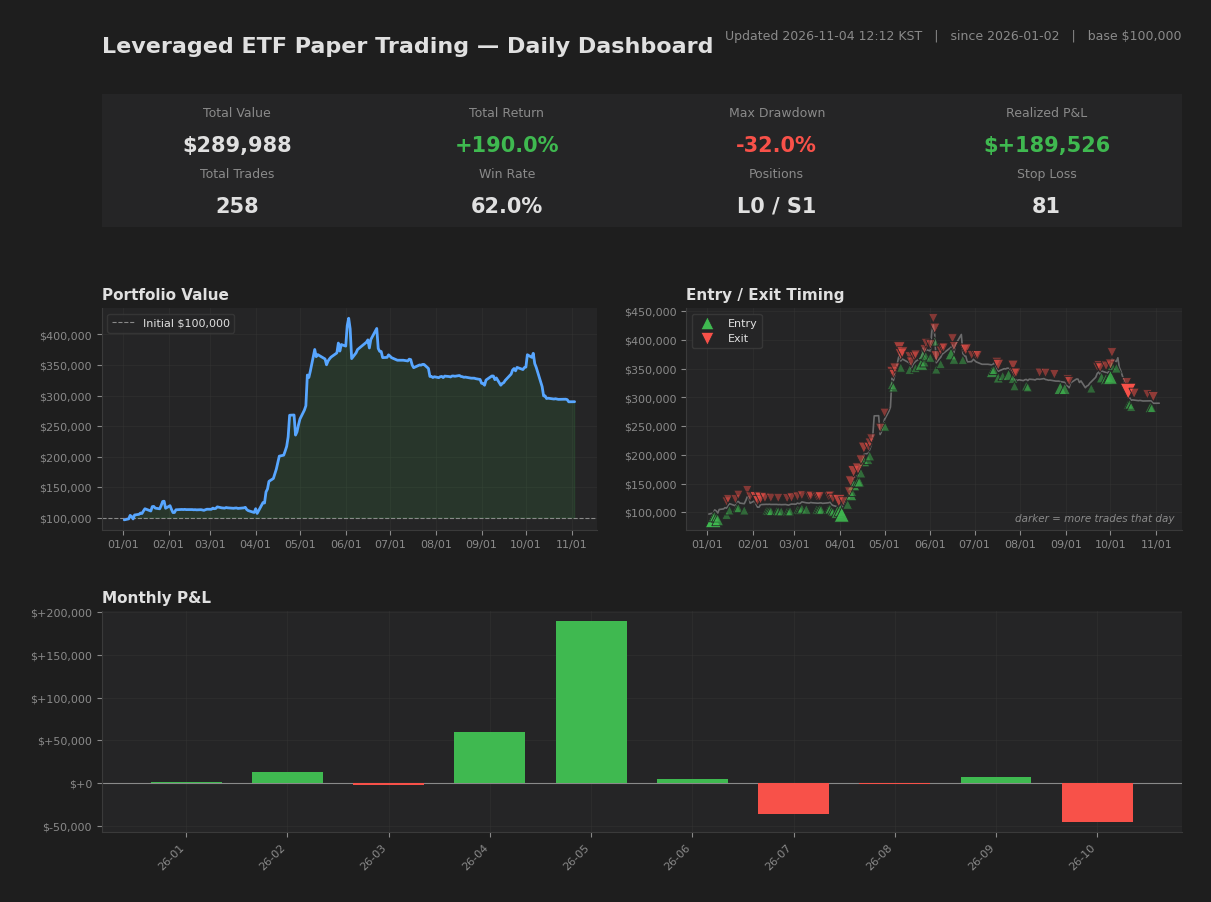
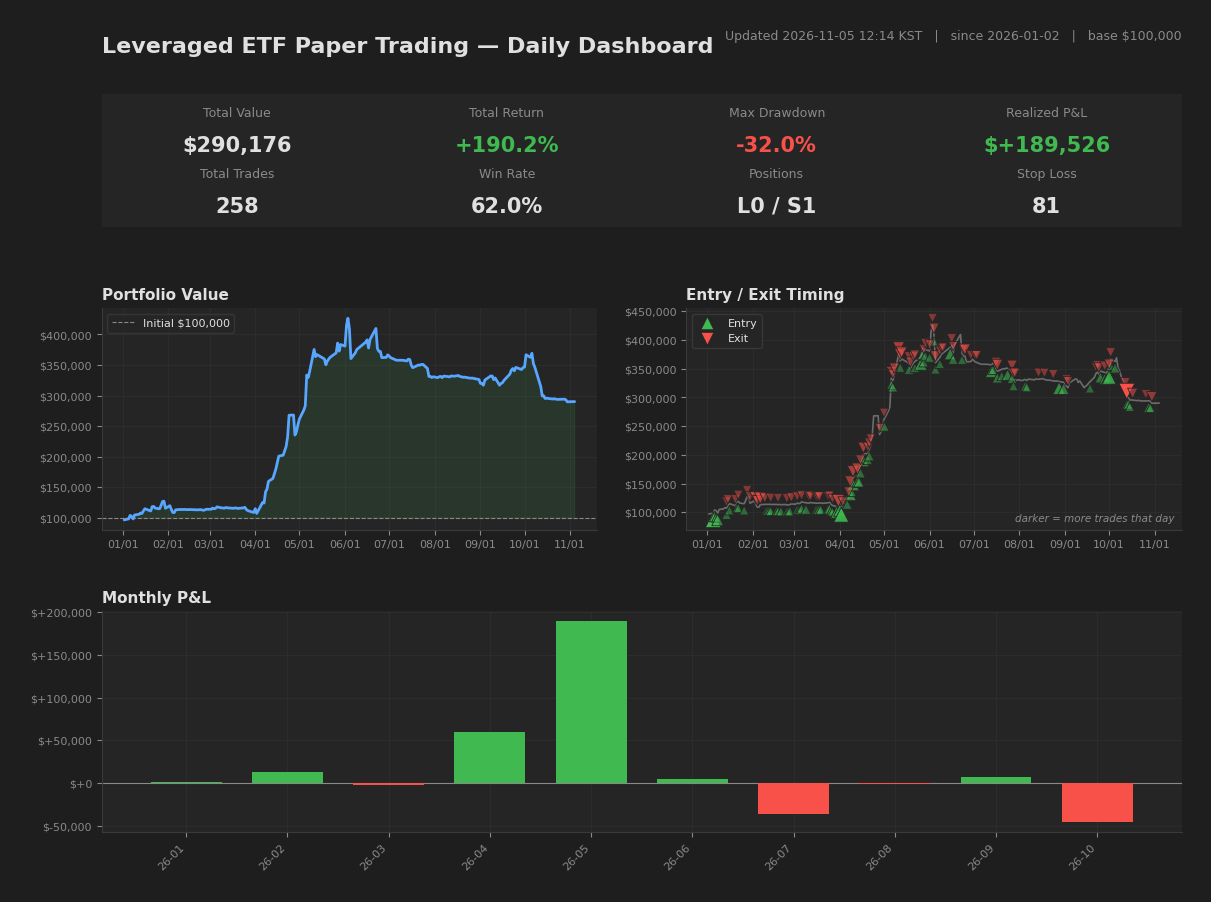
[2026-11-04] Close
Portfolio: $290,176 (+190.2%)
Positions: 1 (L0 S1)
Cumulative: 160/258 wins, P&L: $+189,526

diff --git a/README.md b/README.md
@@ -20,7 +20,7 @@ Drawdown control vs. benchmark. While the benchmark experienced a maximum drawdo
 
 <!-- METRICS:BEGIN (auto-generated by snapshot_backup.py after each market close; do not edit by hand) -->
 - Maximum drawdown: **-32.02%** (peak 2026-06-03 -> trough 2026-10-30, recovered since)
-- As of **2026-11-03** market close. Updated automatically after each close.
+- As of **2026-11-04** market close. Updated automatically after each close.
 <!-- METRICS:END -->
 
 Execution costs. Because the strategy holds positions over multi-day periods with low turnover, the impact of slippage and commissions is designed to be limited rather than a primary driver of results.
